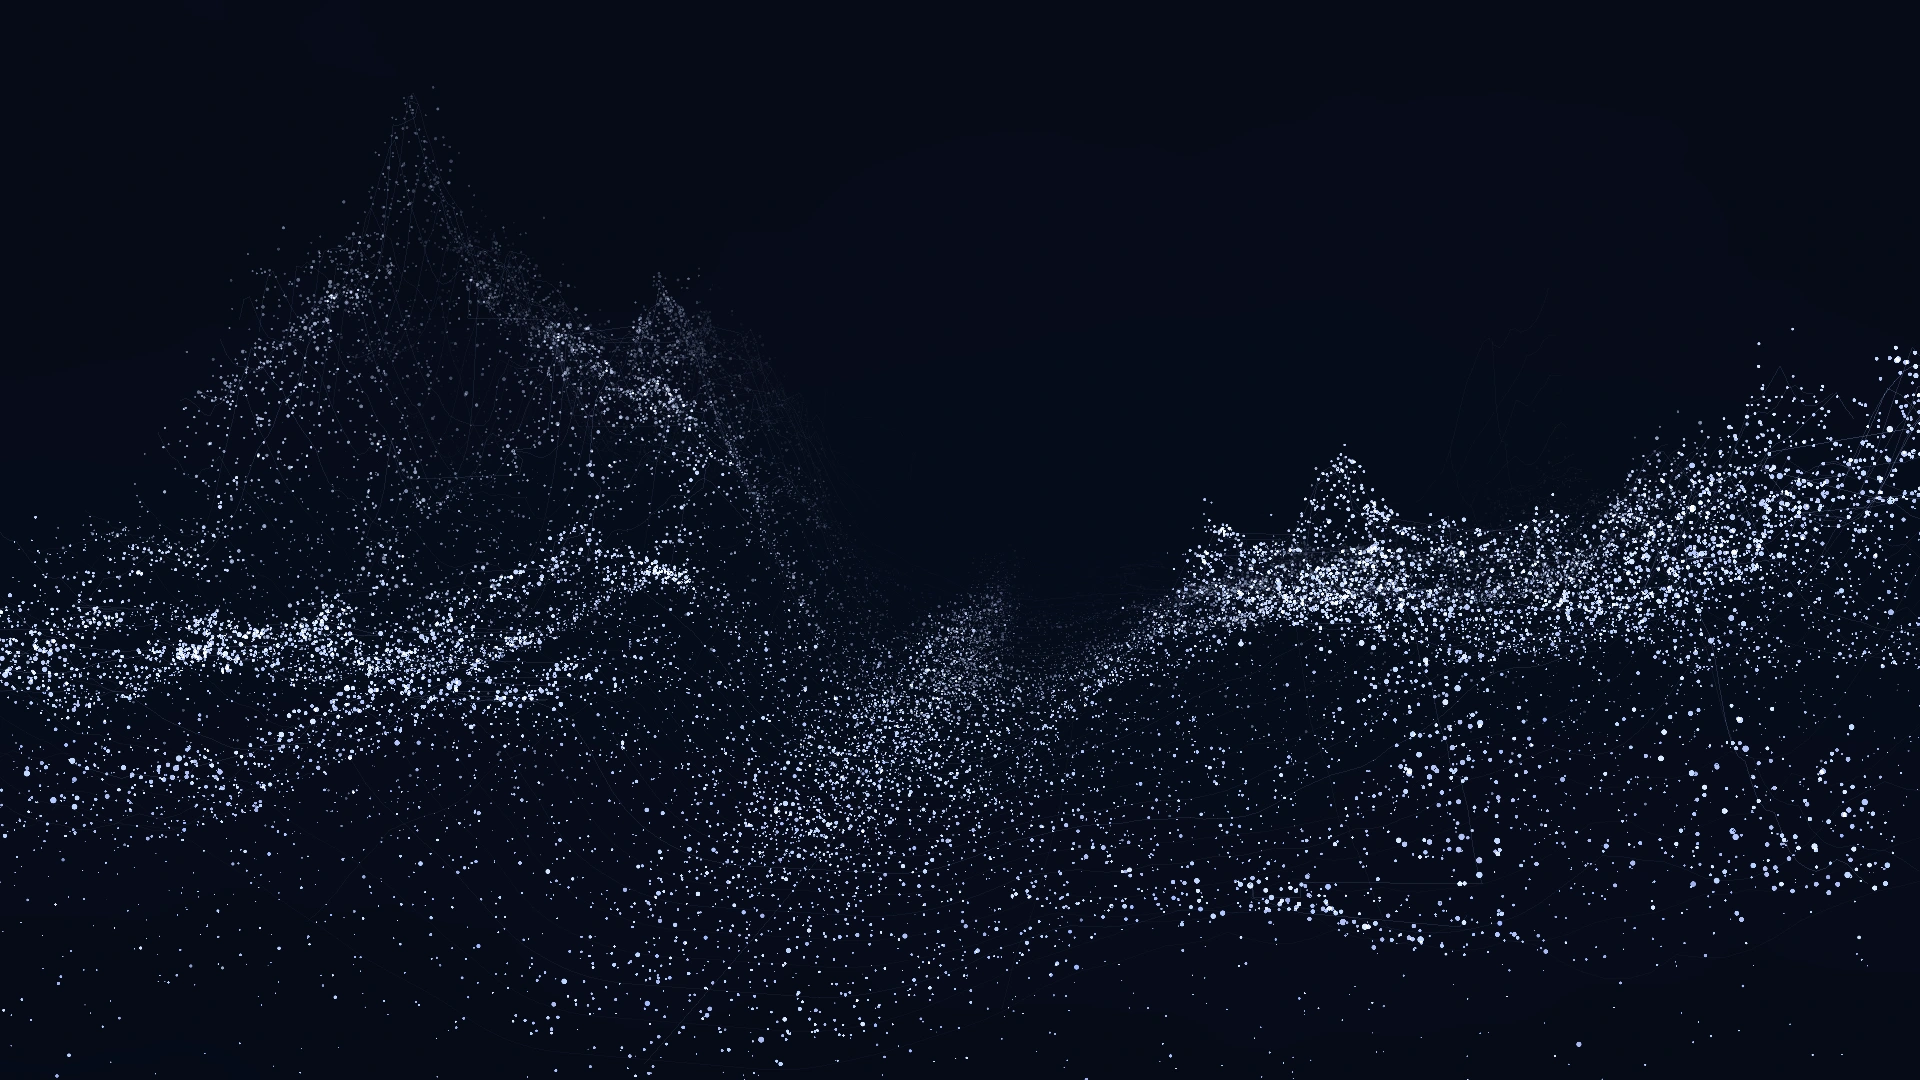
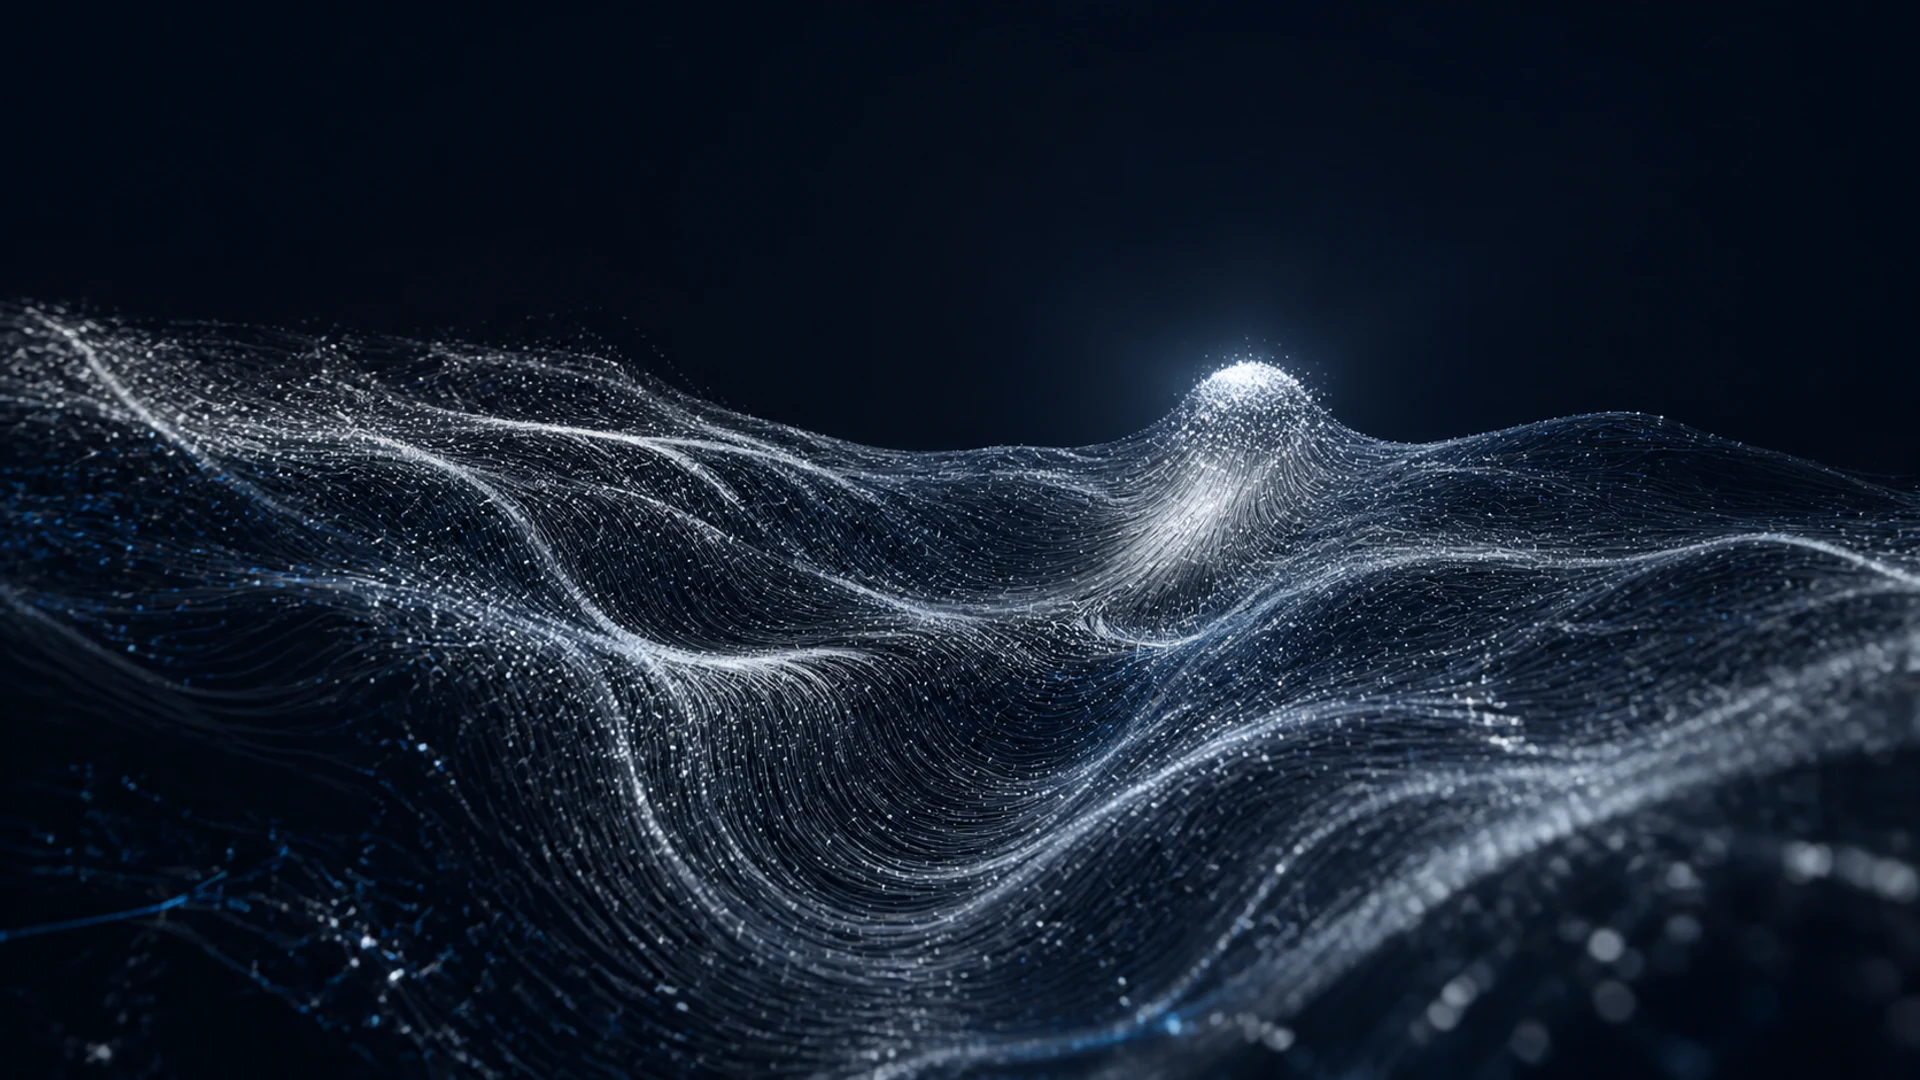
feat(space): art direct conceptual project covers

diff --git a/components/space-index-page.tsx b/components/space-index-page.tsx
@@ -772,11 +772,11 @@ export function SpaceIndexPage() {
         }
 
         .space-labs-preview-frame.is-poly {
-          background: #9876d0;
+          background: #171717;
         }
 
         .space-labs-preview-frame.is-district {
-          background: #f4f1e8;
+          background: #292929;
         }
 
         .space-labs-preview-frame img {
@@ -1453,17 +1453,17 @@ function ProjectCard({
 function ProjectPreview({ kind }: { kind: SpaceIndexPreviewKind }) {
   const cover = {
     "district-image": {
-      alt: "太古里数字街区的彩色体素建筑编辑场景",
+      alt: "由透明与彩色模块持续拆解重组的数字街区",
       className: "is-district",
       src: "/images/space-cards/digital-district.webp",
     },
     "particle-field": {
-      alt: "由发光粒子与网格构成的深邃山谷",
+      alt: "银白粒子在深色流场中汇聚成发光事件核心",
       className: "is-particle",
       src: "/images/space-cards/particle-chronicle.webp",
     },
     "poly-species": {
-      alt: "紫色空间中由多边形碎片构成的蝴蝶",
+      alt: "几何碎片与叶脉共同重组出的开放生命形态",
       className: "is-poly",
       src: "/images/space-cards/poly-species.webp",
     },
